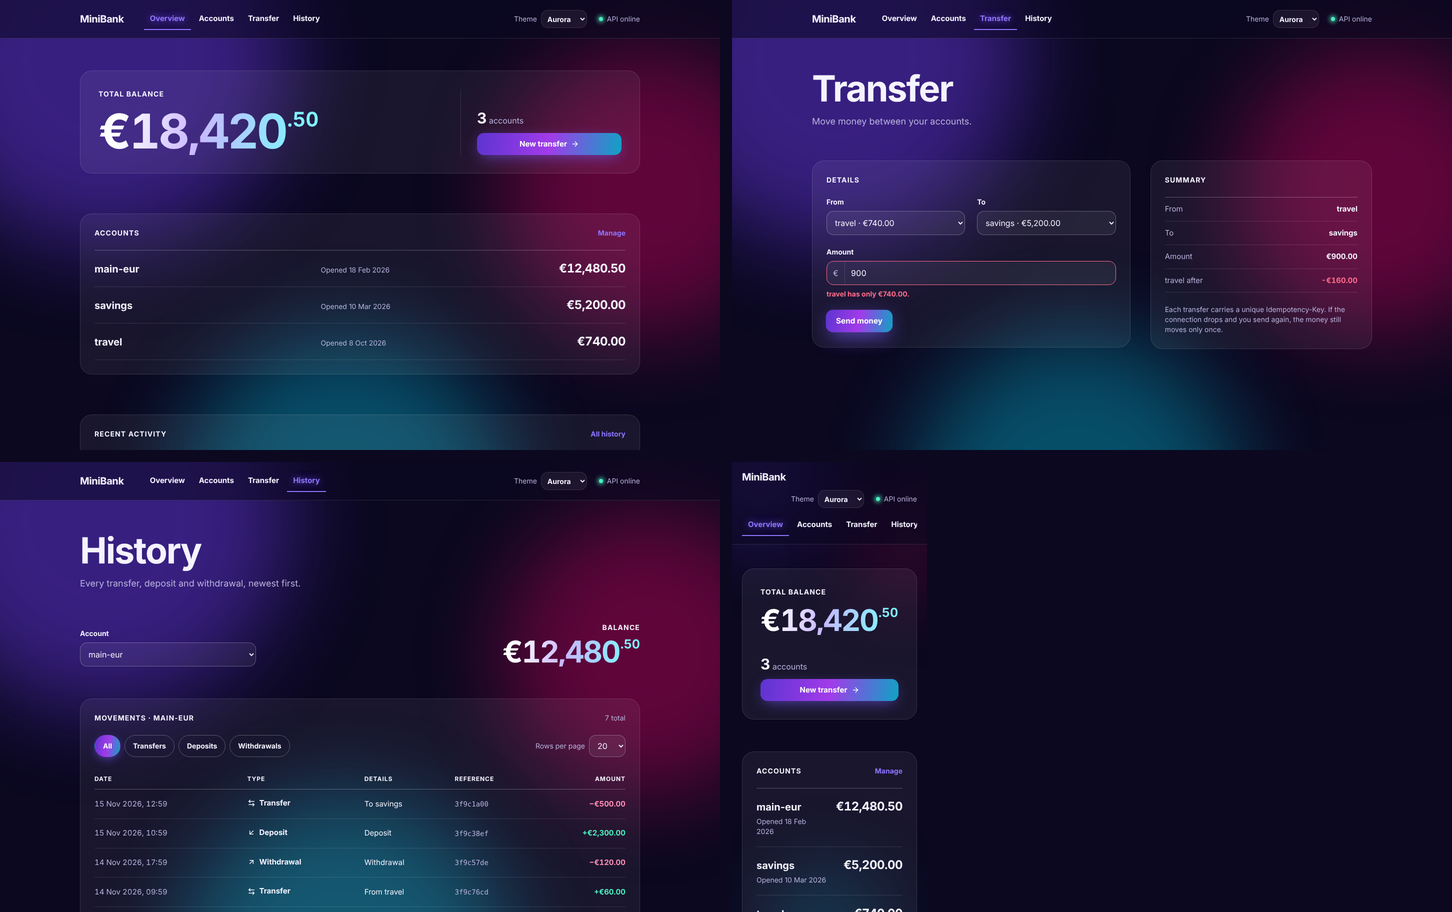
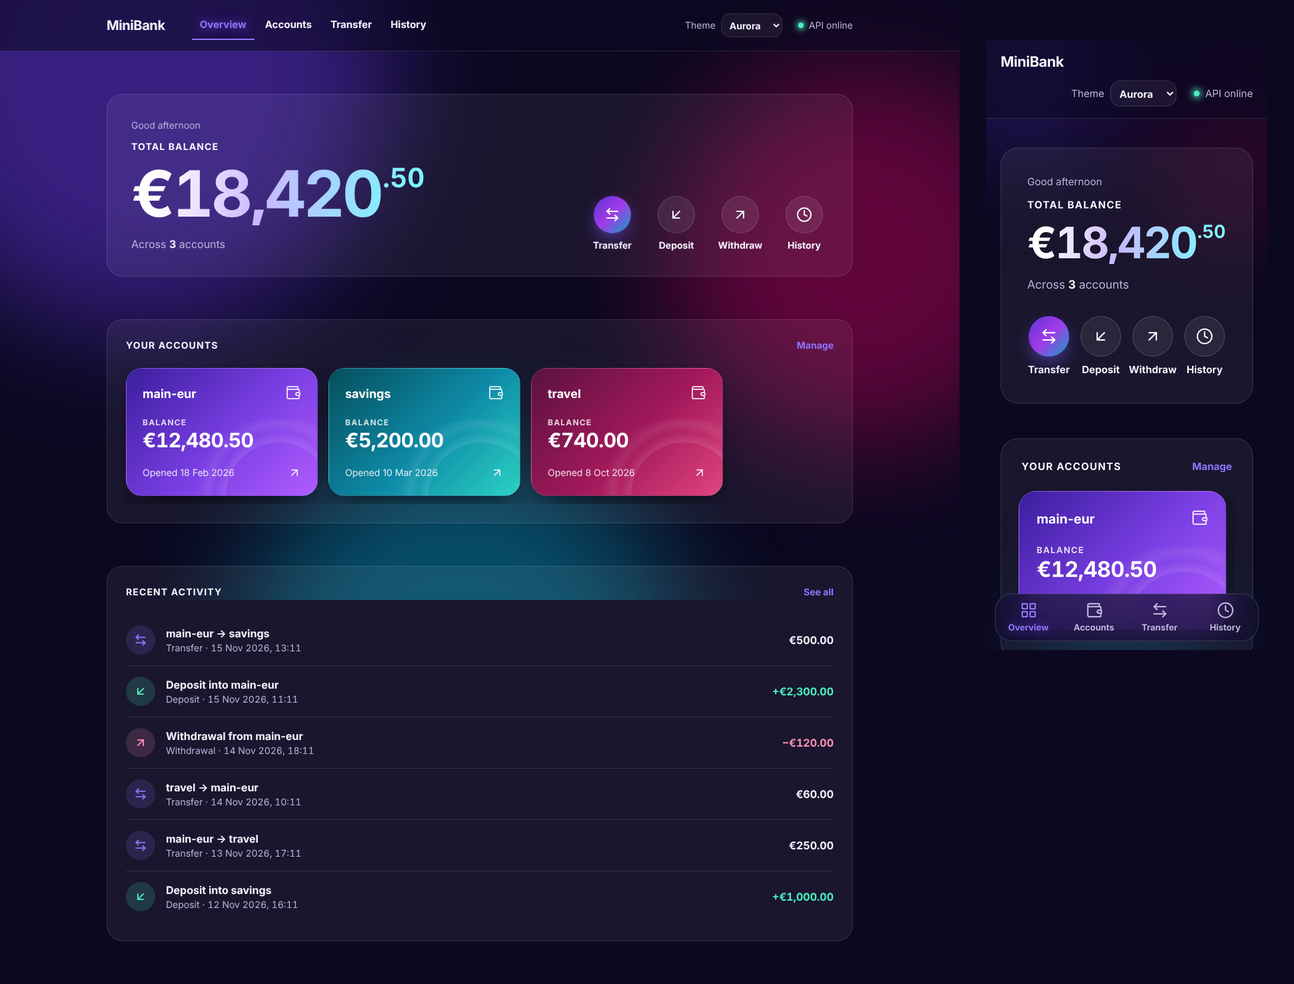
Overview redesign: quick actions, account cards, activity list, phone tab bar
- Round quick actions under the balance (Transfer, Deposit, Withdraw,
  History); Deposit/Withdraw deep-link to the Accounts panel
- Accounts as swipeable gradient cards linking to their history
- Recent activity as an app-style list with round direction icons
- Bottom tab bar on phones; top nav from md up
- Styled for every theme (Aurora gradients, Organic earth, Retro neon, Swiss)

Claude-Session: https://claude.ai/code/session_016r7ZfzB6hRFgoucAEypmrR

diff --git a/frontend/src/index.css b/frontend/src/index.css
@@ -176,6 +176,23 @@
 @keyframes item-in { from { opacity: 0; transform: translateY(10px); } to { opacity: 1; transform: none; } }
 @keyframes rule-draw { from { transform: scaleX(0); } to { transform: scaleX(1); } }
 
+/* Account cards, quick actions, activity icons, phone tab bar: shared defaults */
+.acct-card { position: relative; overflow: hidden; color: #FFFFFF; isolation: isolate;
+  transition: transform 350ms cubic-bezier(.34,1.56,.64,1), box-shadow 350ms ease; }
+.acct-card::after { /* soft rings, like light on a card */
+  content: ""; position: absolute; z-index: -1; right: -40%; bottom: -60%; width: 120%; height: 120%; border-radius: 50%;
+  background: radial-gradient(circle, transparent 38%, rgba(255,255,255,0.10) 39%, transparent 46%, rgba(255,255,255,0.08) 52%, transparent 60%);
+}
+.acct-card:hover { transform: translateY(-4px); }
+.acct-card-0 { background: #111111; }
+.acct-card-1 { background: #002FA7; }
+.acct-card-2 { background: #3D3D45; }
+.activity-in { background: color-mix(in srgb, var(--color-positive) 16%, transparent); color: var(--color-positive); }
+.activity-out { background: color-mix(in srgb, var(--color-negative) 16%, transparent); color: var(--color-negative); }
+.activity-internal { background: color-mix(in srgb, var(--color-accent) 16%, transparent); color: var(--color-accent); }
+.tab-bar { background: var(--color-paper); border: 1px solid var(--color-line); }
+[data-theme="swiss"] .acct-card::after { display: none; }
+
 /* ------------------------------------------------------------------ AURORA */
 
 [data-theme="aurora"] { --enter-dur: 700ms; --enter-ease: cubic-bezier(.34,1.56,.64,1); }
@@ -208,6 +225,14 @@
 }
 [data-theme="aurora"] .btn-primary:hover:not(:disabled) { transform: translateY(-2px) scale(1.02); box-shadow: 0 12px 40px -8px rgba(123, 92, 255, 0.9); }
 [data-theme="aurora"] .chip-on { background-image: linear-gradient(100deg, #5D34D0, #A23BEA 50%, #0FA3C4); border-color: transparent; color: #FFFFFF; box-shadow: 0 6px 20px -6px rgba(123, 92, 255, 0.8); }
+[data-theme="aurora"] .acct-card { border: 1px solid rgba(255,255,255,0.14); box-shadow: 0 18px 40px -18px rgba(0,0,0,0.8); }
+[data-theme="aurora"] .acct-card-0 { background: linear-gradient(135deg, #3B1E9E 0%, #7B3FE4 55%, #B05CFF 100%); }
+[data-theme="aurora"] .acct-card-1 { background: linear-gradient(135deg, #064E5C 0%, #0E8BA8 55%, #2CD3C4 100%); }
+[data-theme="aurora"] .acct-card-2 { background: linear-gradient(135deg, #5A1240 0%, #A3195B 55%, #E0447F 100%); }
+[data-theme="aurora"] .acct-card:hover { box-shadow: 0 24px 50px -16px rgba(123, 92, 255, 0.6); }
+[data-theme="aurora"] .quick-action { background: rgba(255,255,255,0.08); border-color: rgba(255,255,255,0.16); backdrop-filter: blur(12px); }
+[data-theme="aurora"] .quick-action-primary { background-image: linear-gradient(135deg, #5D34D0, #A23BEA 50%, #0FA3C4); border: 0; color: #FFFFFF; box-shadow: 0 10px 28px -8px rgba(123, 92, 255, 0.85); }
+[data-theme="aurora"] .tab-bar { background: rgba(20, 14, 48, 0.72); border-color: rgba(255,255,255,0.14); backdrop-filter: blur(20px); -webkit-backdrop-filter: blur(20px); }
 [data-theme="aurora"] .glow { text-shadow: 0 0 20px rgba(123, 92, 255, 0.8); }
 [data-theme="aurora"] .nav-active { text-shadow: 0 0 16px rgba(123, 92, 255, 0.9); }
 [data-theme="aurora"] .status-dot { box-shadow: 0 0 10px 2px var(--color-positive); background: var(--color-positive); border-radius: 50%; }
@@ -237,6 +262,14 @@
 [data-theme="organic"] .hero-surface .md\:border-l { border-color: rgba(255,255,255,0.25); }
 [data-theme="organic"] .btn-primary:hover:not(:disabled) { transform: translateY(-1px); }
 [data-theme="organic"] .amount-figure { font-weight: 600; letter-spacing: -0.03em; }
+[data-theme="organic"] .acct-card-0 { background: #606C38; }
+[data-theme="organic"] .acct-card-1 { background: #A8522A; }
+[data-theme="organic"] .acct-card-2 { background: #7A5A1E; }
+[data-theme="organic"] .quick-action-primary { background: #A8522A; }
+[data-theme="organic"] .hero-surface .quick-action { background: rgba(255,255,255,0.14); border-color: rgba(255,255,255,0.25); color: #FFFFFF; }
+[data-theme="organic"] .hero-surface .quick-action-primary { background: #E8DCC7; color: #2B2A1E; border: 0; }
+[data-theme="organic"] .hero-surface a { color: #F4EBDA; }
+[data-theme="organic"] .tab-bar { background: #DCCDB1; border-color: var(--color-rule); }
 @keyframes breathe { 0%, 100% { transform: scale(1); } 50% { transform: scale(1.012); } }
 
 /* ------------------------------------------------------------------ RETRO */
@@ -284,6 +317,14 @@
 [data-theme="retro"] .btn-primary:hover:not(:disabled) { box-shadow: 0 0 28px rgba(255, 0, 110, 1); }
 [data-theme="retro"] .nav-active { text-shadow: 0 0 12px rgba(255, 0, 110, 0.95); }
 [data-theme="retro"] .status-dot { background: var(--color-positive); box-shadow: 0 0 10px var(--color-positive); animation: blink 1.2s steps(2) infinite; }
+[data-theme="retro"] .acct-card { background: #120424; border: 1px solid currentColor; }
+[data-theme="retro"] .acct-card-0 { color: #00FFFF; box-shadow: 0 0 18px rgba(0,255,255,0.35), inset 0 0 18px rgba(0,255,255,0.08); }
+[data-theme="retro"] .acct-card-1 { color: #FF4D94; box-shadow: 0 0 18px rgba(255,0,110,0.35), inset 0 0 18px rgba(255,0,110,0.08); }
+[data-theme="retro"] .acct-card-2 { color: #C6FF4A; box-shadow: 0 0 18px rgba(198,255,74,0.3), inset 0 0 18px rgba(198,255,74,0.06); }
+[data-theme="retro"] .acct-card::after { display: none; }
+[data-theme="retro"] .quick-action { border-color: var(--color-line); box-shadow: 0 0 12px rgba(0,255,255,0.3); }
+[data-theme="retro"] .quick-action-primary { box-shadow: 0 0 16px rgba(255,0,110,0.8); border: 0; }
+[data-theme="retro"] .tab-bar { background: rgba(10,0,20,0.92); box-shadow: 0 0 18px rgba(0,255,255,0.35); }
 /* typewriter page titles with a block caret */
 [data-theme="retro"] .typewriter {
   display: inline-block; overflow: hidden; white-space: nowrap; vertical-align: bottom;

diff --git a/frontend/src/pages/OverviewPage.tsx b/frontend/src/pages/OverviewPage.tsx
@@ -1,15 +1,21 @@
 import { Link } from 'react-router'
-import { ArrowRight } from 'lucide-react'
 import { useAllAccounts, useRecentActivity } from '../api/queries'
 import { BigAmount, LoadingLine, Notice, Section, linkButton } from '../components/ui'
-import { MovementTable } from '../components/MovementTable'
-import { formatDate, formatMoney } from '../lib/money'
+import { AccountCards } from '../components/AccountCards'
+import { ActivityList } from '../components/ActivityList'
+import { QuickActions } from '../components/QuickActions'
+
+function greeting(now = new Date()) {
+  const h = now.getHours()
+  return h < 12 ? 'Good morning' : h < 18 ? 'Good afternoon' : 'Good evening'
+}
 
 export function OverviewPage() {
   const accounts = useAllAccounts()
   const list = accounts.data?.content ?? []
   const total = list.reduce((sum, a) => sum + a.balance, 0)
-  const activity = useRecentActivity(list.slice(0, 10).map((a) => a.id))
+  const count = accounts.data?.totalElements ?? 0
+  const activity = useRecentActivity(list.slice(0, 10).map((a) => a.id), 6)
 
   if (accounts.isLoading) return <LoadingLine>Loading accounts…</LoadingLine>
   if (accounts.error) return <Notice tone="error" title="Couldn’t load accounts">{accounts.error.message}</Notice>
@@ -25,47 +31,29 @@ export function OverviewPage() {
   }
 
   return (
-    <div className="flex flex-col gap-16 md:gap-20">
-      <div className="hero-surface grid grid-cols-1 gap-10 md:grid-cols-12">
-        <div className="md:col-span-8">
-          <p className="text-sm font-bold uppercase tracking-[0.08em]">Total balance</p>
-          <h1 className="mt-4">
+    <div className="flex flex-col gap-12 md:gap-16">
+      <div className="hero-surface flex flex-col gap-8 md:flex-row md:items-end md:justify-between">
+        <div>
+          <p className="text-sm text-muted">{greeting()}</p>
+          <p className="mt-3 text-sm font-bold uppercase tracking-[0.08em]">Total balance</p>
+          <h1 className="mt-3">
             <span className="sr-only">Total balance </span>
             <BigAmount value={total} size="xl" />
           </h1>
-        </div>
-        <div className="flex flex-col justify-end gap-3 border-l-0 border-rule md:col-span-4 md:border-l md:pl-8">
-          <p className="text-muted">
-            <span className="text-3xl font-bold tabular-nums text-ink">{accounts.data?.totalElements}</span>{' '}
-            {accounts.data?.totalElements === 1 ? 'account' : 'accounts'}
+          <p className="mt-4 text-muted">
+            Across <span className="font-bold tabular-nums text-ink">{count}</span> {count === 1 ? 'account' : 'accounts'}
           </p>
-          <Link to="/transfer" className={linkButton.primary}>
-            New transfer <ArrowRight aria-hidden="true" className="size-4" />
-          </Link>
+        </div>
+        <div className="md:min-w-[360px]">
+          <QuickActions accountId={list[0]?.id} />
         </div>
       </div>
 
-      <Section title="Accounts" aside={<Link to="/accounts" className={linkButton.quiet}>Manage</Link>}>
-        <ul className="stagger border-t border-line">
-          {list.map((a) => (
-            <li key={a.id} className="border-b border-rule">
-              <Link
-                to={`/history?account=${encodeURIComponent(a.id)}`}
-                className="group grid grid-cols-[1fr_auto] items-baseline gap-x-6 gap-y-1 py-5 text-ink no-underline md:grid-cols-12"
-                aria-label={`${a.id}, balance ${formatMoney(a.balance)}. View history`}
-              >
-                <span className="text-xl font-bold font-display transition-colors duration-200 group-hover:text-accent md:col-span-5">{a.id}</span>
-                <span className="order-3 text-sm text-muted md:order-none md:col-span-3">Opened {formatDate(a.createdAt)}</span>
-                <span className="text-right text-2xl font-bold tabular-nums tracking-[-0.02em] md:col-span-4">
-                  {formatMoney(a.balance)}
-                </span>
-              </Link>
-            </li>
-          ))}
-        </ul>
+      <Section title="Your accounts" aside={<Link to="/accounts" className={linkButton.quiet}>Manage</Link>}>
+        <AccountCards accounts={list} />
       </Section>
 
-      <Section title="Recent activity" aside={<Link to="/history" className={linkButton.quiet}>All history</Link>}>
+      <Section title="Recent activity" aside={<Link to="/history" className={linkButton.quiet}>See all</Link>}>
         {activity.isLoading ? (
           <LoadingLine />
         ) : activity.error ? (
@@ -73,7 +61,7 @@ export function OverviewPage() {
         ) : activity.items.length === 0 ? (
           <p className="border-t border-rule py-4 text-muted">No money has moved yet.</p>
         ) : (
-          <MovementTable items={activity.items} caption="Latest movements across all accounts" />
+          <ActivityList items={activity.items} label="Latest movements across all accounts" />
         )}
       </Section>
     </div>

diff --git a/frontend/src/components/Layout.tsx b/frontend/src/components/Layout.tsx
@@ -1,14 +1,41 @@
 import { NavLink, Outlet, useLocation } from 'react-router'
 import { useId } from 'react'
+import { ArrowLeftRight, Clock, LayoutGrid, Wallet } from 'lucide-react'
 import { useHealth } from '../api/queries'
 import { themes, useTheme, type ThemeId } from '../theme'
 
 const nav = [
-  { to: '/', label: 'Overview', end: true },
-  { to: '/accounts', label: 'Accounts' },
-  { to: '/transfer', label: 'Transfer' },
-  { to: '/history', label: 'History' },
+  { to: '/', label: 'Overview', end: true, Icon: LayoutGrid },
+  { to: '/accounts', label: 'Accounts', Icon: Wallet },
+  { to: '/transfer', label: 'Transfer', Icon: ArrowLeftRight },
+  { to: '/history', label: 'History', Icon: Clock },
 ]
+
+/** Phone-only bottom tab bar (the top nav is hidden below md). */
+function TabBar() {
+  return (
+    <nav aria-label="Main" className="tab-bar fixed inset-x-3 bottom-3 z-20 rounded-box md:hidden">
+      <ul className="grid grid-cols-4">
+        {nav.map(({ to, label, end, Icon }) => (
+          <li key={to}>
+            <NavLink
+              to={to}
+              end={end}
+              className={({ isActive }) =>
+                `flex min-h-16 flex-col items-center justify-center gap-1 text-xs font-bold no-underline transition-colors duration-200 ${
+                  isActive ? 'nav-active text-accent' : 'text-muted'
+                }`
+              }
+            >
+              <Icon aria-hidden="true" className="size-6" strokeWidth={2} />
+              {label}
+            </NavLink>
+          </li>
+        ))}
+      </ul>
+    </nav>
+  )
+}
 
 function ApiStatus() {
   const { data, isError, isLoading } = useHealth()
@@ -61,7 +88,7 @@ export function Layout() {
             <NavLink to="/" className="font-display text-xl font-bold tracking-[-0.02em] text-ink no-underline">
               MiniBank
             </NavLink>
-            <nav aria-label="Main" className="order-3 w-full md:order-none md:w-auto">
+            <nav aria-label="Main" className="hidden md:block">
               <ul className="flex gap-1 overflow-x-auto">
                 {nav.map((item) => (
                   <li key={item.to}>
@@ -86,12 +113,13 @@ export function Layout() {
             </div>
           </div>
         </header>
-        <main id="main" className="mx-auto max-w-[1200px] px-5 py-12 md:px-10 md:py-16">
+        <main id="main" className="mx-auto max-w-[1200px] px-5 pb-28 pt-10 md:px-10 md:py-16">
           {/* keyed by path so each page plays its enter animation */}
           <div key={location.pathname} className="page-enter">
             <Outlet />
           </div>
         </main>
+        <TabBar />
       </div>
     </div>
   )

diff --git a/frontend/src/components/ActivityList.tsx b/frontend/src/components/ActivityList.tsx
@@ -1,0 +1,45 @@
+import { ArrowDownLeft, ArrowLeftRight, ArrowUpRight } from 'lucide-react'
+import type { TransferDetails } from '../api/types'
+import { formatDateTime, formatMoney } from '../lib/money'
+import { direction } from './MovementTable'
+
+const typeLabel = { TRANSFER: 'Transfer', DEPOSIT: 'Deposit', WITHDRAWAL: 'Withdrawal' } as const
+
+function title(t: TransferDetails) {
+  if (t.type === 'DEPOSIT') return `Deposit into ${t.toId}`
+  if (t.type === 'WITHDRAWAL') return `Withdrawal from ${t.fromId}`
+  return `${t.fromId} → ${t.toId}`
+}
+
+/** Compact, app-style list of movements: round icon, what happened, when, and the amount. */
+export function ActivityList({ items, label }: { items: TransferDetails[]; label: string }) {
+  return (
+    <ul className="stagger flex flex-col" aria-label={label}>
+      {items.map((t) => {
+        const dir = direction(t)
+        const Icon = dir === 'in' ? ArrowDownLeft : dir === 'out' ? ArrowUpRight : ArrowLeftRight
+        const sign = dir === 'in' ? '+' : dir === 'out' ? '−' : ''
+        return (
+          <li key={t.id} className="flex items-center gap-4 border-b border-rule py-4 last:border-b-0">
+            <span aria-hidden="true" className={`activity-icon activity-${dir} flex size-11 shrink-0 items-center justify-center rounded-full`}>
+              <Icon className="size-5" strokeWidth={2.25} />
+            </span>
+            <span className="min-w-0 flex-1">
+              <span className="block truncate font-bold">{title(t)}</span>
+              <span className="block text-sm text-muted">
+                {typeLabel[t.type]} · <span className="tabular-nums">{formatDateTime(t.createdAt)}</span>
+              </span>
+            </span>
+            <span
+              className={`whitespace-nowrap text-right font-bold tabular-nums ${dir === 'in' ? 'text-positive' : dir === 'out' ? 'text-negative' : 'text-ink'}`}
+            >
+              <span className="sr-only">{dir === 'in' ? 'Incoming ' : dir === 'out' ? 'Outgoing ' : 'Between accounts '}</span>
+              {sign}
+              {formatMoney(t.amount)}
+            </span>
+          </li>
+        )
+      })}
+    </ul>
+  )
+}

diff --git a/frontend/src/components/AccountCards.tsx b/frontend/src/components/AccountCards.tsx
@@ -1,0 +1,36 @@
+import { Link } from 'react-router'
+import { ArrowUpRight, Wallet } from 'lucide-react'
+import type { Account } from '../api/types'
+import { formatDate, formatMoney } from '../lib/money'
+
+/** Accounts as swipeable payment-style cards. Each card links to that account's history. */
+export function AccountCards({ accounts }: { accounts: Account[] }) {
+  return (
+    <ul className="stagger -mx-1 flex snap-x snap-mandatory gap-4 overflow-x-auto px-1 pb-3" aria-label="Accounts">
+      {accounts.map((a, i) => (
+        <li key={a.id} className="snap-start">
+          <Link
+            to={`/history?account=${encodeURIComponent(a.id)}`}
+            className={`acct-card acct-card-${i % 3} group flex h-48 w-72 flex-col justify-between rounded-box p-6 no-underline`}
+            aria-label={`${a.id}, balance ${formatMoney(a.balance)}. View history`}
+          >
+            <span className="flex items-start justify-between gap-3">
+              <span className="font-display text-lg font-bold">{a.id}</span>
+              <Wallet aria-hidden="true" className="size-6 opacity-80" />
+            </span>
+            <span>
+              <span className="block text-xs font-bold uppercase tracking-[0.1em] opacity-80">Balance</span>
+              <span className="font-display block text-3xl font-bold tabular-nums tracking-[-0.02em]">
+                {formatMoney(a.balance)}
+              </span>
+            </span>
+            <span className="flex items-center justify-between text-sm opacity-85">
+              <span>Opened {formatDate(a.createdAt)}</span>
+              <ArrowUpRight aria-hidden="true" className="size-5 transition-transform duration-300 group-hover:-translate-y-0.5 group-hover:translate-x-0.5" />
+            </span>
+          </Link>
+        </li>
+      ))}
+    </ul>
+  )
+}

diff --git a/frontend/src/components/QuickActions.tsx b/frontend/src/components/QuickActions.tsx
@@ -1,0 +1,31 @@
+import { Link } from 'react-router'
+import { ArrowDownLeft, ArrowLeftRight, ArrowUpRight, Clock } from 'lucide-react'
+
+/** Round shortcut buttons under the total balance. Deposit / Withdraw open the panel for the given account. */
+export function QuickActions({ accountId }: { accountId?: string }) {
+  const q = accountId ? `&account=${encodeURIComponent(accountId)}` : ''
+  const actions = [
+    { to: '/transfer', label: 'Transfer', Icon: ArrowLeftRight, primary: true },
+    { to: `/accounts?action=deposit${q}`, label: 'Deposit', Icon: ArrowDownLeft },
+    { to: `/accounts?action=withdraw${q}`, label: 'Withdraw', Icon: ArrowUpRight },
+    { to: '/history', label: 'History', Icon: Clock },
+  ]
+  return (
+    <ul className="stagger grid grid-cols-4 gap-3 sm:gap-6" aria-label="Quick actions">
+      {actions.map(({ to, label, Icon, primary }) => (
+        <li key={label}>
+          <Link to={to} className="group flex flex-col items-center gap-2 text-sm font-bold text-ink no-underline">
+            <span
+              className={`quick-action flex size-14 items-center justify-center rounded-full transition-transform duration-300 group-hover:-translate-y-1 group-active:scale-95 ${
+                primary ? 'quick-action-primary bg-accent text-on-accent' : 'border border-rule bg-neutral text-ink'
+              }`}
+            >
+              <Icon aria-hidden="true" className="size-6" strokeWidth={2} />
+            </span>
+            {label}
+          </Link>
+        </li>
+      ))}
+    </ul>
+  )
+}

diff --git a/frontend/src/pages/AccountsPage.tsx b/frontend/src/pages/AccountsPage.tsx
@@ -1,5 +1,5 @@
 import { Fragment, useState, type FormEvent } from 'react'
-import { Link } from 'react-router'
+import { Link, useSearchParams } from 'react-router'
 import { useAccountsPage, useCreateAccount, useDeposit, useWithdraw } from '../api/queries'
 import type { Account } from '../api/types'
 import {
@@ -147,7 +147,15 @@ function MoneyPanel({ account, mode, onClose }: {
 export function AccountsPage() {
   const [page, setPage] = useState(0)
   const { data, isLoading, error } = useAccountsPage(page, PAGE_SIZE)
-  const [open, setOpen] = useState<{ id: string; mode: 'deposit' | 'withdraw' } | null>(null)
+  // deep link from the Overview quick actions: /accounts?account=main-eur&action=deposit
+  const [params] = useSearchParams()
+  const linkedAction = params.get('action')
+  const linkedAccount = params.get('account')
+  const [open, setOpen] = useState<{ id: string; mode: 'deposit' | 'withdraw' } | null>(
+    linkedAccount && (linkedAction === 'deposit' || linkedAction === 'withdraw')
+      ? { id: linkedAccount, mode: linkedAction }
+      : null,
+  )
 
   return (
     <>
